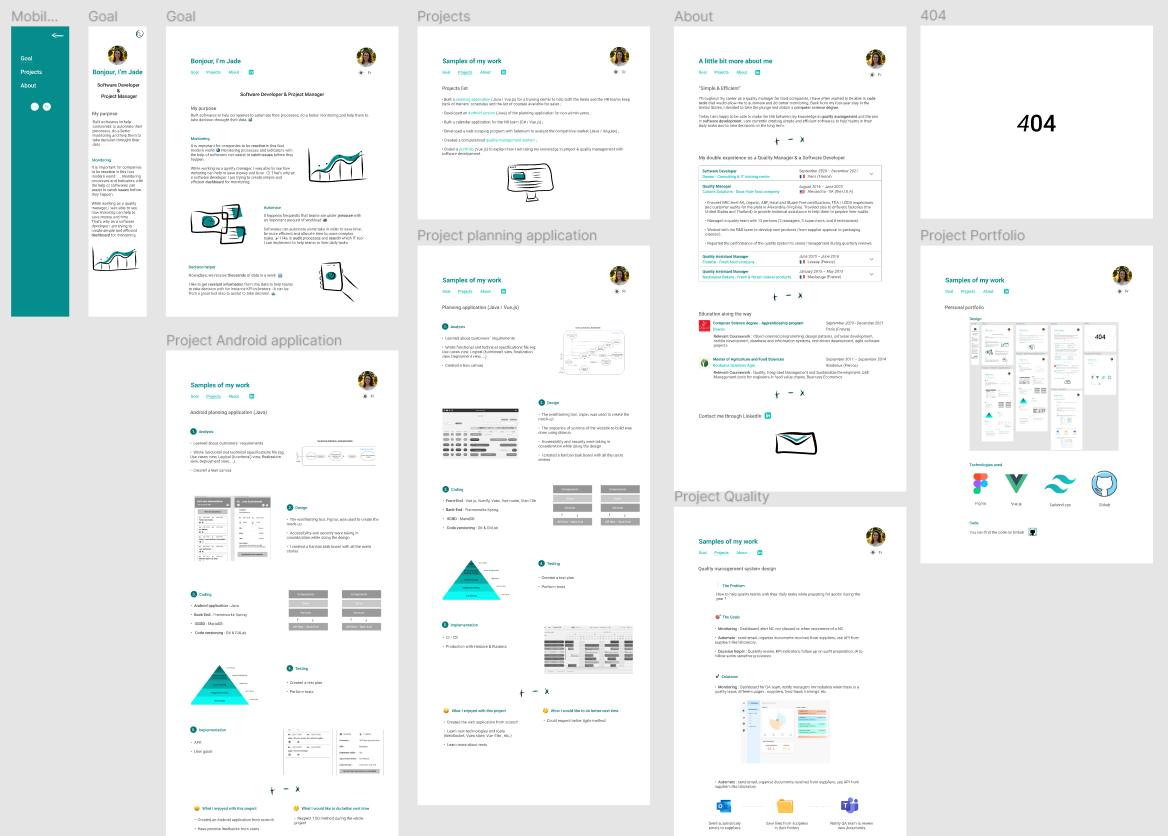
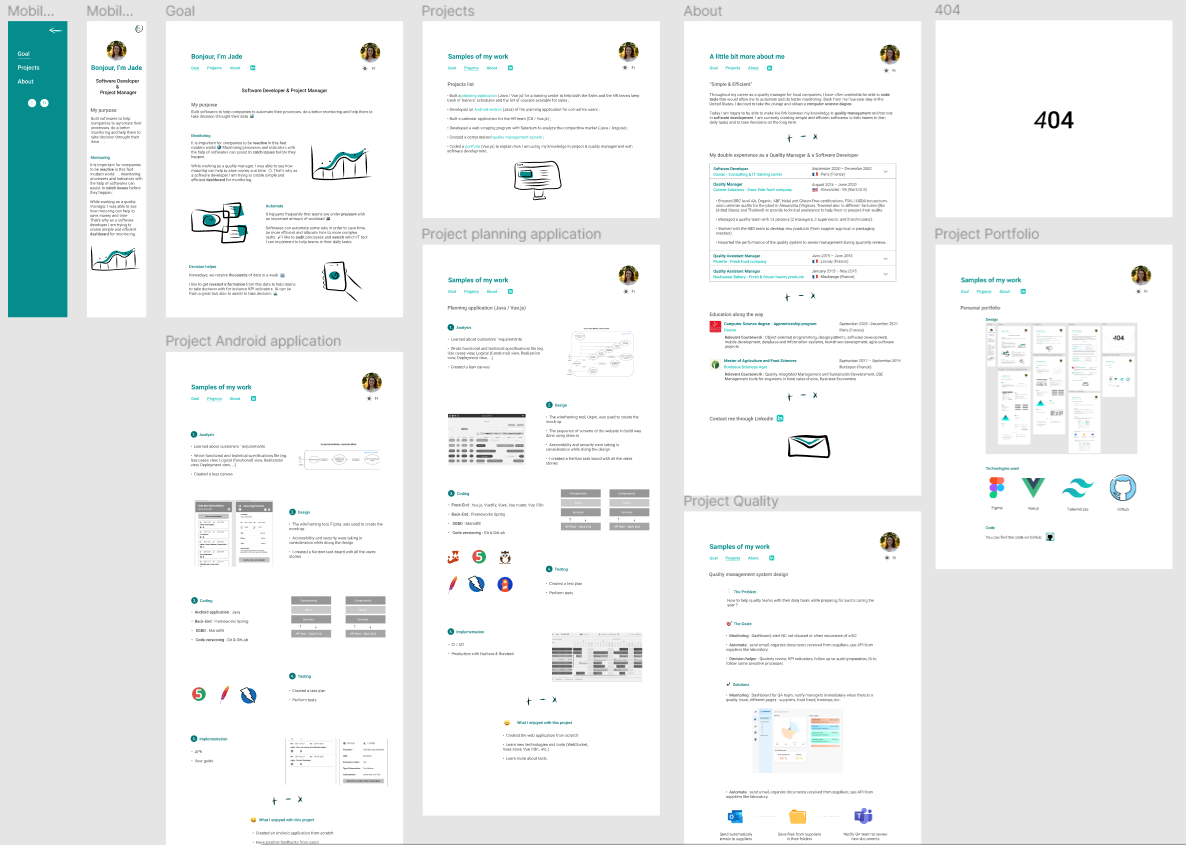
review all pages & clear

diff --git a/src/components/projects/AndroidPlanningProject.vue b/src/components/projects/AndroidPlanningProject.vue
@@ -24,7 +24,7 @@
       </div>
 
       <div
-        class="text-gray-800 dark:text-teal-50 text-left md:col-start-3 col-span-6 md:col-span-4"
+        class="text-gray-800 dark:text-teal-50 text-left md:mr-7 md:col-start-3 col-span-6 md:col-span-4"
       >
         <ul
           class="list-disc list-inside text-justify"
@@ -38,8 +38,8 @@
       <div class="md:col-start-7 col-span-6 md:col-span-4 flex justify-center">
         <img
           src="@/assets/use-case-planning-android.png"
-          alt="Use case image for Planning Web Application project"
-          class=""
+          alt="Use case image for Planning Android Application project"
+          class="object-scale-down max-h-60"
         />
       </div>
       <!-- End Analysis -->
@@ -78,7 +78,7 @@
         <img
           src="@/assets/notion-planning.png"
           alt="Use case image for Planning Web Application project"
-          class="max-h-48"
+          class="object-cover max-h-60"
         />
       </div>
       <!-- End design -->
@@ -118,19 +118,11 @@
         </ul>
       </div>
 
-      <div class="md:col-start-7 col-span-6 md:col-span-2 flex justify-center">
-        <img
-          src="@/assets/layers-planning-back.png"
-          alt="Organization layers planning web appliation - Back-End"
-          class="max-h-48"
-        />
-      </div>
-
-      <div class="md:col-start-9 col-span-6 md:col-span-2 flex justify-center">
+      <div class="md:col-start-7 col-span-6 md:col-span-4 flex justify-center">
         <img
           src="@/assets/layers-planning-android.png"
-          alt="Organization layers planning web appliation - Front-End"
-          class="max-h-48"
+          alt="Organization layers planning android appliation"
+          class="object-scale-down max-h-60"
         />
       </div>
       <!-- End coding -->
@@ -251,7 +243,7 @@
         <img
           src="@/assets/planning-android.png"
           alt="Planning Web Application project screen shot"
-          class="max-h-72"
+          class="object-scale-down max-h-72"
         />
       </div>
       <!-- End implementation -->
@@ -263,17 +255,15 @@
       </div>
 
       <!-- Start feedback -->
-      <div
-        class="md:col-start-3 col-span-8 md:col-span-8 grid grid-cols-8 grid-rows-auto"
-      >
+      <div class="col-span-6 md:col-start-5">
         <div
-          class="text-teal-700 dark:text-teal-50 font-semibold text-left mb-3 col-span-6 md:col-span-4"
+          class="text-teal-700 dark:text-teal-50 font-semibold text-left mb-5"
         >
           {{ $t("planning-android.positive") }}
         </div>
 
         <div
-          class="text-gray-800 dark:text-teal-50 text-left md:mr-10 mb-10 col-span-8 md:col-span-4 md:row-start-2"
+          class="text-gray-800 dark:text-teal-50 text-left md:mr-10 mb-10 md:row-start-2"
         >
           <ul
             class="list-disc list-inside text-justify"
@@ -283,28 +273,10 @@
             <li>{{ p }}</li>
           </ul>
         </div>
-
-        <div
-          class="text-teal-700 dark:text-teal-50 font-semibold text-left mb-3 md:col-start-5 col-span-8 md:col-span-4 md:row-start-1"
-        >
-          {{ $t("planning-android.improvement") }}
-        </div>
-
-        <div
-          class="text-gray-800 dark:text-teal-50 text-left md:col-start-5 col-span-8 md:col-span-4 md:row-start-2"
-        >
-          <ul
-            class="list-disc list-inside text-justify"
-            v-for="i in improvement"
-            :key="i"
-          >
-            <li>{{ i }}</li>
-          </ul>
-        </div>
       </div>
       <!-- End feeback -->
       <button
-        class="rounded-full bg-teal-400 md:col-start-10 h-10"
+        class="text-white text-sm rounded-full bg-teal-400 hover:bg-teal-700 col-start-6 md:col-start-10 h-10 mb-16"
         @click="$router.go(-1)"
       >
         {{ $t("nav.goBack") }}

diff --git a/src/components/projects/PlanningProject.vue b/src/components/projects/PlanningProject.vue
@@ -39,7 +39,7 @@
         <img
           src="@/assets/use-case-planning-web.png"
           alt="Use case image for Planning Web Application project"
-          class="max-h-48"
+          class="object-scale-down max-h-52"
         />
       </div>
       <!-- End Analysis -->
@@ -78,7 +78,7 @@
         <img
           src="@/assets/notion-planning.png"
           alt="Use case image for Planning Web Application project"
-          class="max-h-48"
+          class="object-cover max-h-60"
         />
       </div>
       <!-- End design -->
@@ -100,7 +100,7 @@
       </div>
 
       <div
-        class="text-gray-800 dark:text-teal-50 text-justify md:col-start-3 col-span-6 md:col-span-4"
+        class="text-gray-800 dark:text-teal-50 text-justify md:mr-7 md:col-start-3 col-span-6 md:col-span-4"
       >
         <ul class="list-disc list-inside">
           <li class="mb-3">
@@ -119,19 +119,11 @@
         </ul>
       </div>
 
-      <div class="md:col-start-7 col-span-6 md:col-span-2 flex justify-center">
+      <div class="md:col-start-7 col-span-6 md:col-span-4 flex justify-center">
         <img
-          src="@/assets/layers-planning-back.png"
-          alt="Organization layers planning web appliation - Back-End"
-          class="max-h-48"
-        />
-      </div>
-
-      <div class="md:col-start-9 col-span-6 md:col-span-2 flex justify-center">
-        <img
-          src="@/assets/layers-planning-front.png"
-          alt="Organization layers planning web appliation - Front-End"
-          class="max-h-48"
+          src="@/assets/layers-planning-web.png"
+          alt="Organization layers planning web appliation"
+          class="object-scale-down max-h-60"
         />
       </div>
       <!-- End coding -->
@@ -270,7 +262,7 @@
         <img
           src="@/assets/planning-web.png"
           alt="Planning Web Application project screen shot"
-          class="max-h-48"
+          class="max-h-60"
         />
       </div>
       <!-- End implementation -->
@@ -283,16 +275,16 @@
 
       <!-- Start feedback -->
       <div
-        class="md:col-start-3 col-span-8 md:col-span-8 grid grid-cols-8 grid-rows-auto"
+        class="col-span-6 md:col-span-7 md:col-start-4"
       >
         <div
-          class="text-teal-700 dark:text-teal-50 font-semibold text-left mb-3 col-span-6 md:col-span-4"
+          class="text-teal-700 dark:text-teal-50 font-semibold text-left mb-5"
         >
           {{ $t("planning-web.positive") }}
         </div>
 
         <div
-          class="text-gray-800 dark:text-teal-50 text-left md:mr-10 mb-10 col-span-8 md:col-span-4 md:row-start-2"
+          class="text-gray-800 dark:text-teal-50 text-left md:mr-10 mb-10 md:row-start-2"
         >
           <ul
             class="list-disc list-inside text-justify"
@@ -303,27 +295,10 @@
           </ul>
         </div>
 
-        <div
-          class="text-teal-700 dark:text-teal-50 font-semibold text-left mb-3 md:col-start-5 col-span-8 md:col-span-4 md:row-start-1"
-        >
-          {{ $t("planning-web.improvement") }}
-        </div>
-
-        <div
-          class="text-gray-800 dark:text-teal-50 text-left md:col-start-5 col-span-8 md:col-span-4 md:row-start-2"
-        >
-          <ul
-            class="list-disc list-inside text-justify"
-            v-for="i in improvement"
-            :key="i"
-          >
-            <li>{{ i }}</li>
-          </ul>
-        </div>
       </div>
       <!-- End feeback -->
       <button
-        class="rounded-full bg-teal-400 md:col-start-10 h-10"
+        class="text-white text-sm rounded-full bg-teal-400 hover:bg-teal-700 col-start-6 md:col-start-10 h-10 mb-16"
         @click="$router.go(-1)"
       >
         {{ $t("nav.goBack") }}

diff --git a/src/components/projects/QualityProject.vue b/src/components/projects/QualityProject.vue
@@ -48,17 +48,17 @@
       </ul>
 
       <div
-        class="my-5 md:col-start-3 col-span-6 md:col-span-8 flex justify-center"
+        class="mt-5 mb-10 md:col-start-3 col-span-6 md:col-span-8 flex justify-center"
       >
         <img
           src="@/assets/quality-dashboard.png"
           alt="quality dashboard image"
-          class="md:w-3/4"
+          class="md:max-w-xl rounded-lg"
         />
       </div>
 
       <ul
-        class="text-gray-800 dark:text-teal-50 md:col-start-3 col-span-6 md:col-span-8 list-disc list-inside text-justify"
+        class="text-gray-800 dark:text-teal-50 mb-5 md:col-start-3 col-span-6 md:col-span-8 list-disc list-inside text-justify"
       >
         <li v-html="$t('quality.subtitle3Automate')"></li>
       </ul>
@@ -66,9 +66,9 @@
       <div
         class="text-gray-800 dark:text-teal-50 mb-5 md:col-start-3 col-span-6 md:col-span-8 grid grid-cols-8 justify-items-center"
       >
-        <div class="col-span-6 md:col-span-2 flex flex-col items-center">
-          <img src="@/assets/outlook.png" alt="outlook image" class="w-24" />
-          <p>{{ $t("quality.supplierEmail") }}</p>
+        <div class="col-span-8 md:col-span-2 flex flex-col items-center">
+          <img src="@/assets/outlook.png" alt="outlook image" class="w-16" />
+          <p class="text-sm">{{ $t("quality.supplierEmail") }}</p>
         </div>
 
         <div
@@ -78,10 +78,10 @@
         </div>
 
         <div
-          class="col-span-6 md:col-span-2 md:col-start-4 flex flex-col items-center"
+          class="col-span-8 md:col-span-2 md:col-start-4 flex flex-col items-center"
         >
-          <img src="@/assets/folder.png" alt="folder image" class="w-24" />
-          <p>{{ $t("quality.supplierFile") }}</p>
+          <img src="@/assets/folder.png" alt="folder image" class="w-16" />
+          <p class="text-sm">{{ $t("quality.supplierFile") }}</p>
         </div>
 
         <div
@@ -91,30 +91,30 @@
         </div>
 
         <div
-          class="col-span-6 md:col-span-2 md:col-start-7 flex flex-col items-center"
+          class="col-span-8 md:col-span-2 md:col-start-7 flex flex-col items-center"
         >
-          <img src="@/assets/teams.png" alt="teams image" class="w-24" />
-          <p>{{ $t("quality.notification") }}</p>
+          <img src="@/assets/teams.png" alt="teams image" class="w-16" />
+          <p class="text-sm">{{ $t("quality.notification") }}</p>
         </div>
       </div>
 
       <ul
-        class="text-gray-800 dark:text-teal-50 md:col-start-3 col-span-6 md:col-span-8 list-disc list-inside text-justify"
+        class="text-gray-800 dark:text-teal-50 mt-10 md:col-start-3 col-span-6 md:col-span-8 list-disc list-inside text-justify"
       >
         <li v-html="$t('quality.subtitle3Decision')"></li>
       </ul>
 
       <div
-        class="my-5 md:col-start-3 col-span-6 md:col-span-8 flex justify-center"
+        class="mt-5 mb-10 md:col-start-3 col-span-6 md:col-span-8 flex justify-center"
       >
         <img
           src="@/assets/quality-page.png"
           alt="quality page example"
-          class="md:w-3/4"
+          class="md:max-w-xl rounded-lg"
         />
       </div>
       <button
-        class="rounded-full bg-teal-400 md:col-start-10 h-10"
+        class="text-white text-sm rounded-full bg-teal-400 hover:bg-teal-700 col-start-6 md:col-start-10 h-10 mb-16"
         @click="$router.go(-1)"
       >
         {{ $t("nav.goBack") }}

diff --git a/src/components/projects/PortfolioProject.vue b/src/components/projects/PortfolioProject.vue
@@ -14,7 +14,7 @@
       </div>
 
       <div class="md:col-start-3 col-span-6 md:col-span-8">
-        <img src="@/assets/mockup-portfolio.png" alt="portfolio mock up" />
+        <img src="@/assets/mockup-portfolio.png" alt="portfolio mock up" class="md:max-w-3xl rounded-lg"/>
       </div>
 
       <div
@@ -84,11 +84,11 @@
           href="https://github.com/jdasilvalima/Vuejs-Porfolio/tree/master/vue-ts"
           target="_blank"
         >
-          <img src="@/assets/github.svg" alt="Github logo" class="inline" />
+          <img src="@/assets/github.svg" alt="Github logo" class="ml-2 inline" />
         </a>
       </div>
       <button
-        class="rounded-full bg-teal-400 md:col-start-10 h-10"
+        class="text-white text-sm rounded-full bg-teal-400 hover:bg-teal-700 col-start-6 md:col-start-10 h-10 mb-16"
         @click="$router.go(-1)"
       >
         {{ $t("nav.goBack") }}
